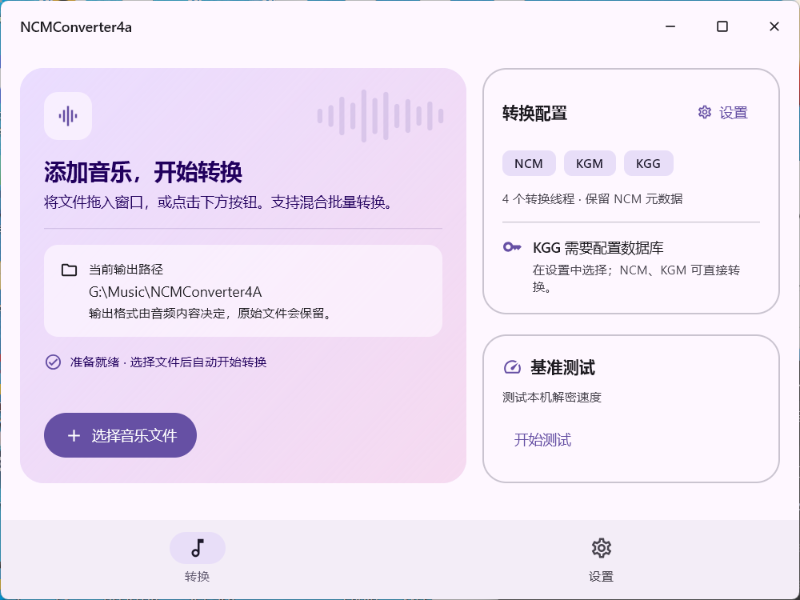
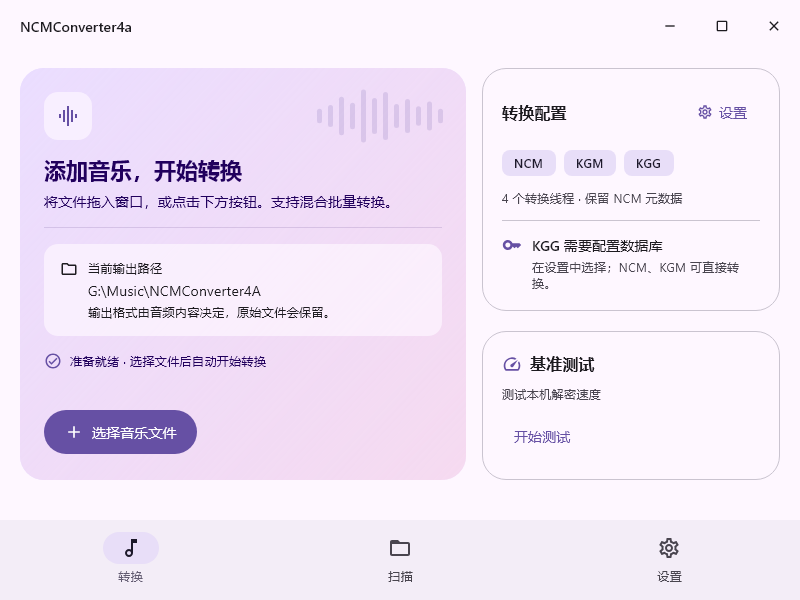
docs(readme): 更新程序界面截图并优化排版
- 重新渲染 PC 端默认界面与单列布局截图，反映三栏底部导航与最新界面
- 新增 PC 端目录扫描双列界面截图 (docs/images/scan-screenshot.png)
- 优化 README.md 截图排版：PC 端双列并排展示，单列截图居中收敛宽度

AI-Model: Gemini 4 Neon (High)
AI-Harness: Antigravity

diff --git a/README.md b/README.md
@@ -4,15 +4,16 @@
 
 ### 程序界面
 
-PC 端默认启动界面：
+| PC 端默认界面 | PC 端目录扫描界面 |
+| :---: | :---: |
+| ![PC 端默认启动的双列界面](docs/images/desktop-screenshot.png) | ![PC 端目录扫描的双列界面](docs/images/scan-screenshot.png) |
 
-![PC 端默认启动的双列界面](docs/images/desktop-screenshot.png)
+<p align="center">
+  <strong>单列布局（供手机端界面参考）</strong><br /><br />
+  <img src="docs/images/single-column-screenshot.png" alt="程序单列布局，供手机端界面参考" width="320" />
+</p>
 
-单列布局，供手机端界面参考：
-
-![程序单列布局，供手机端界面参考](docs/images/single-column-screenshot.png)
-
-单列截图来自 PC 端窄窗口，两张截图中的输出路径均为示例配置。
+> 单列截图来自 PC 端窄窗口，截图中的路径与曲目均为示例配置。
 
 ### 使用方法：
 1.从"选择音乐文件"按钮选择文件 
